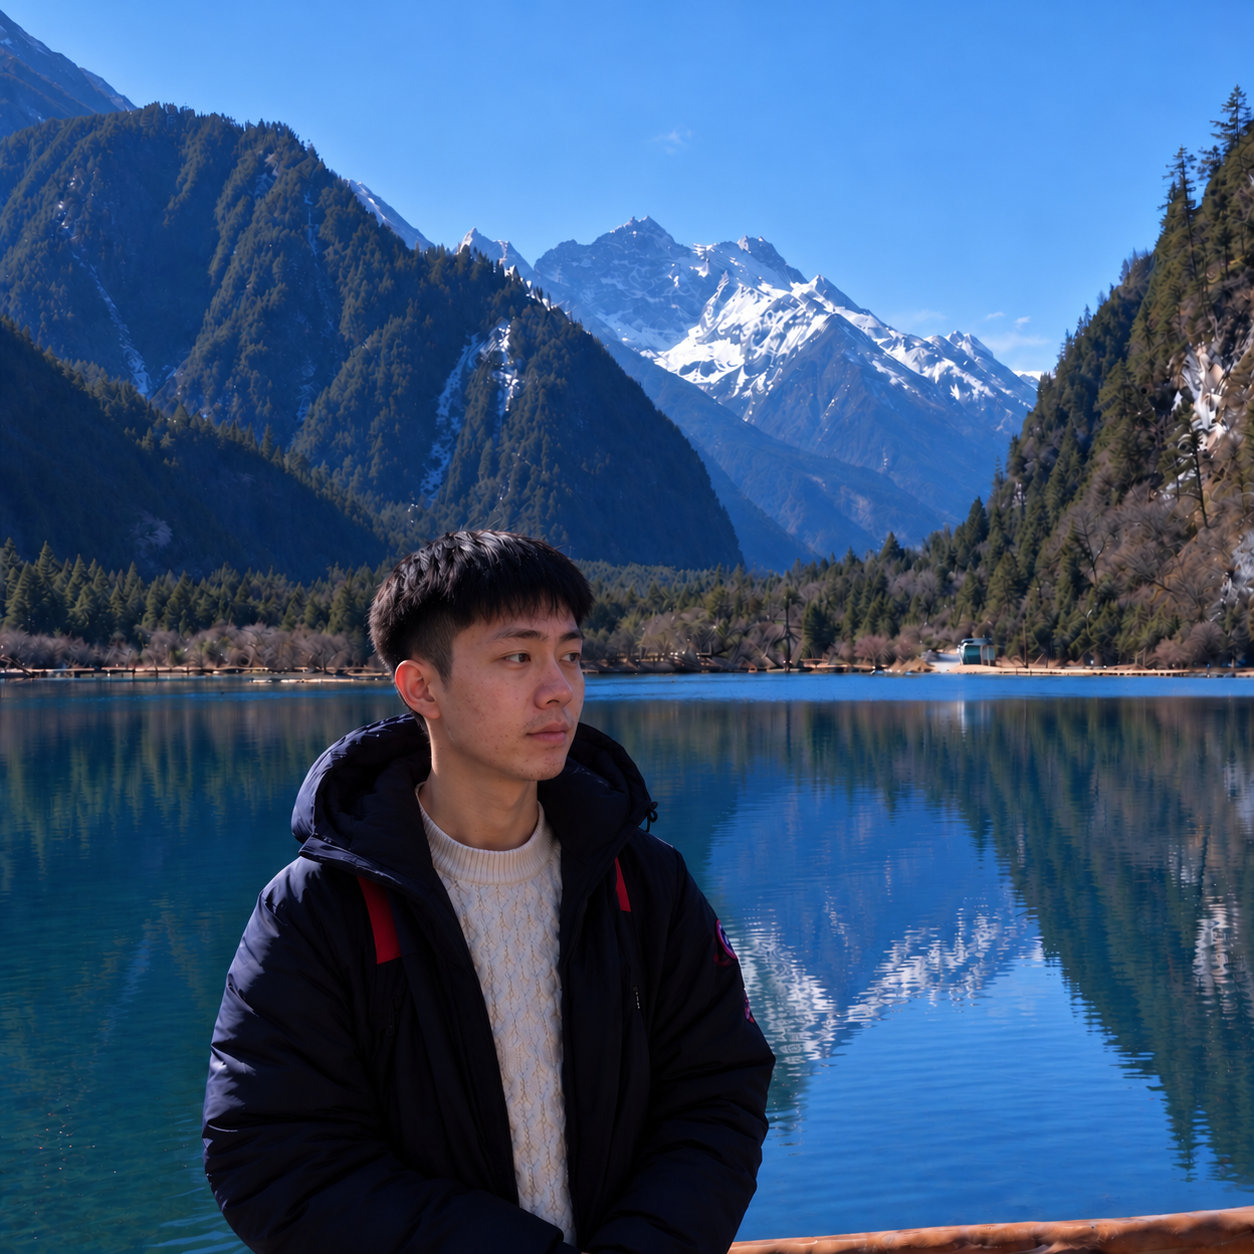
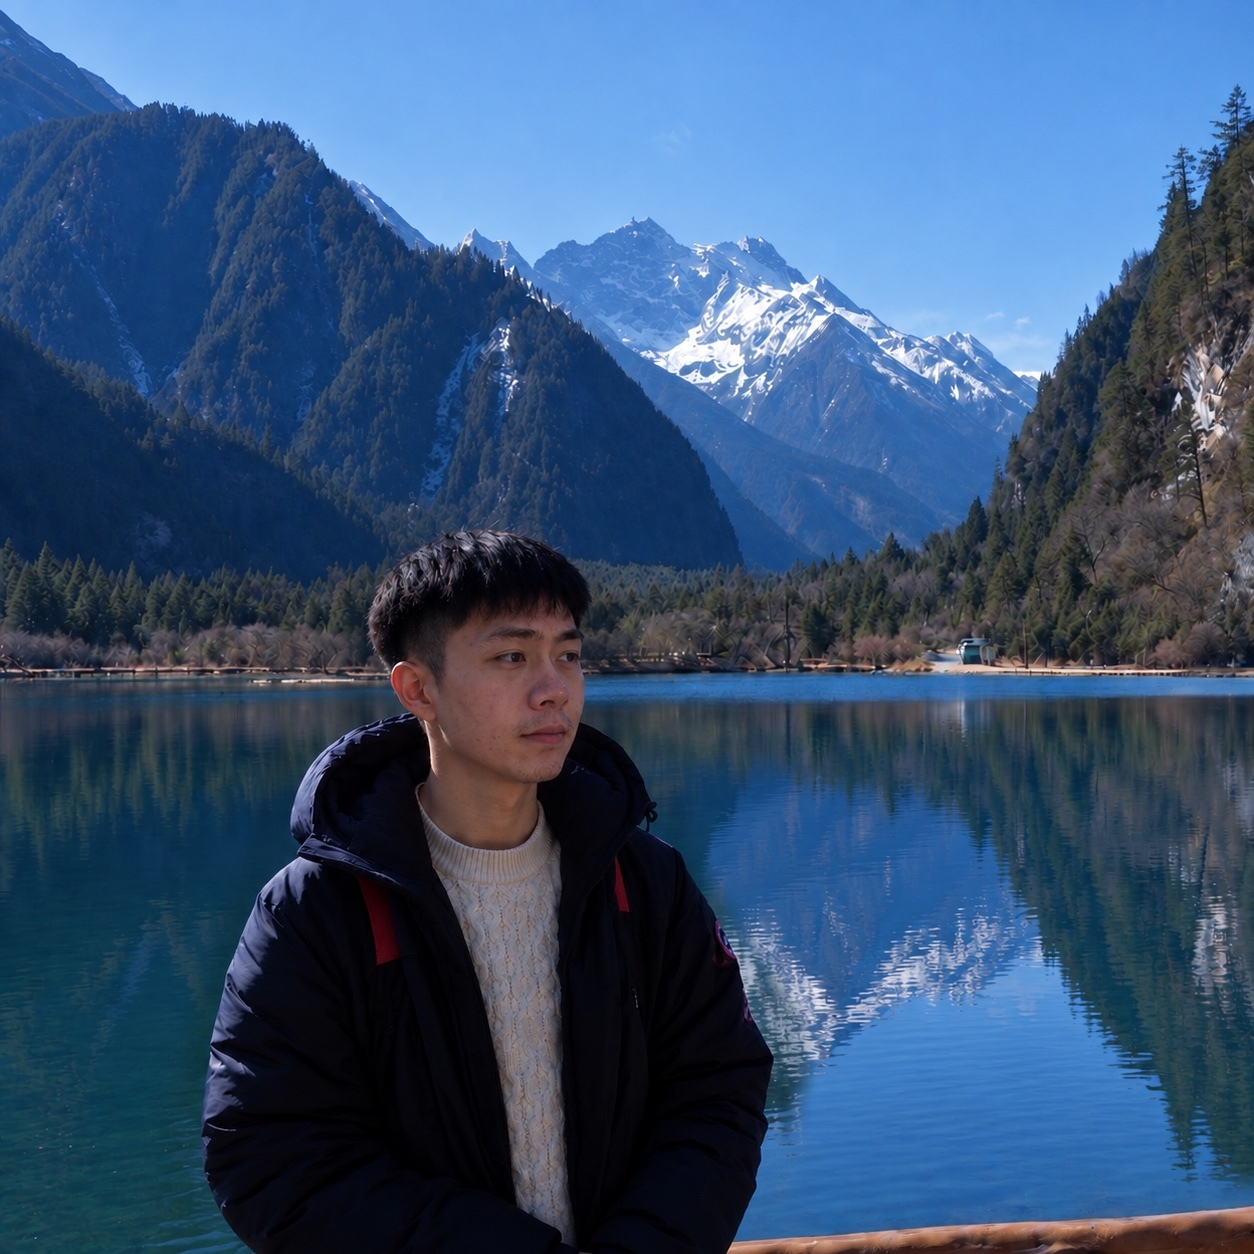
Revert profile photo and update motto

diff --git a/index.html b/index.html
@@ -40,7 +40,7 @@
 
           <p>Feel free to reach out for interesting discussions and potential collaborations.</p>
 
-          <p class="motto">Studying AI is a continual pursuit of deeper understanding and self-transcendence.</p>
+          <p class="motto">Studying mathematics and AI is also a continual pursuit of self-transcendence.</p>
 
           <p class="contacts">
             <a href="https://github.com/xiaol827">Github</a> /
